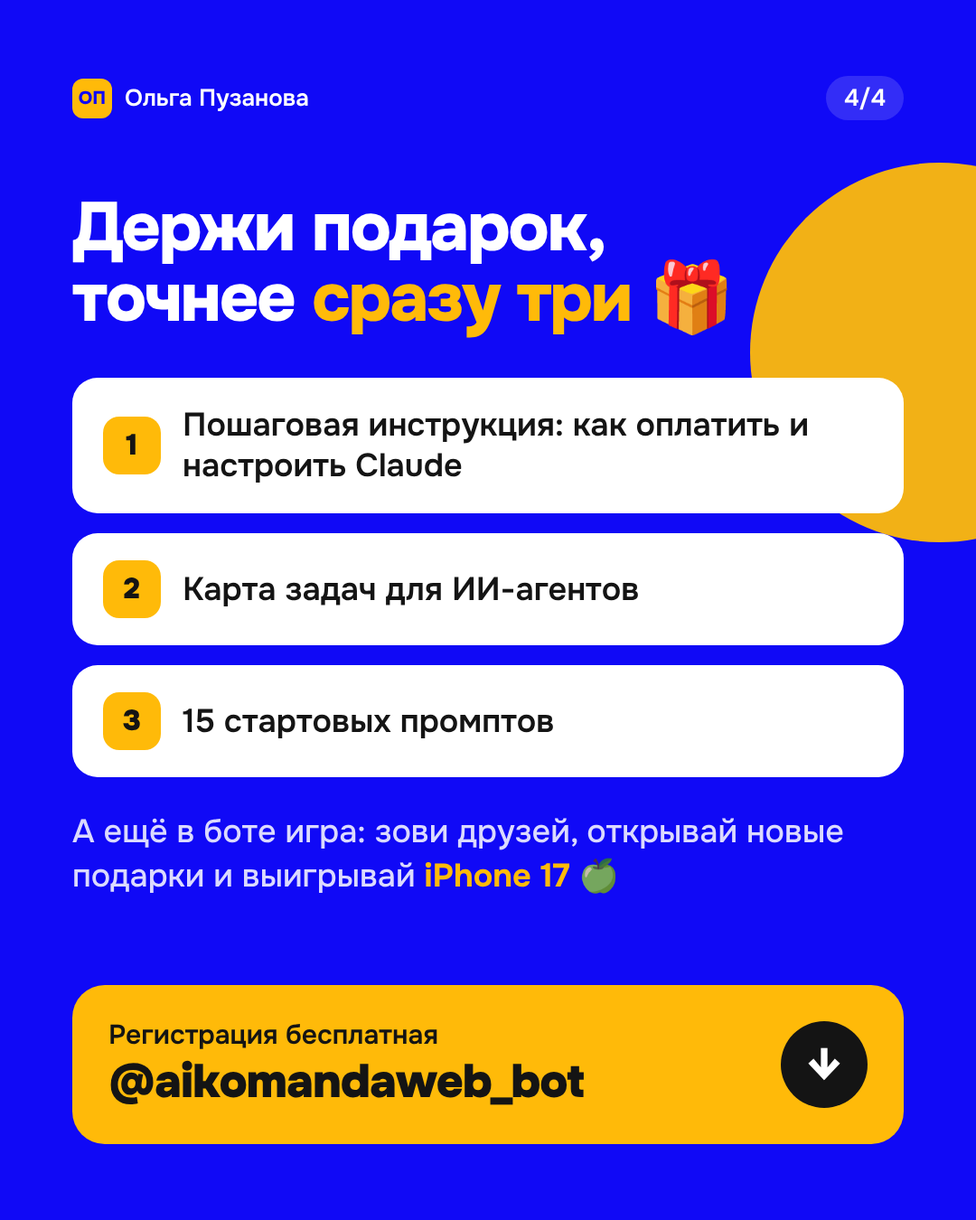
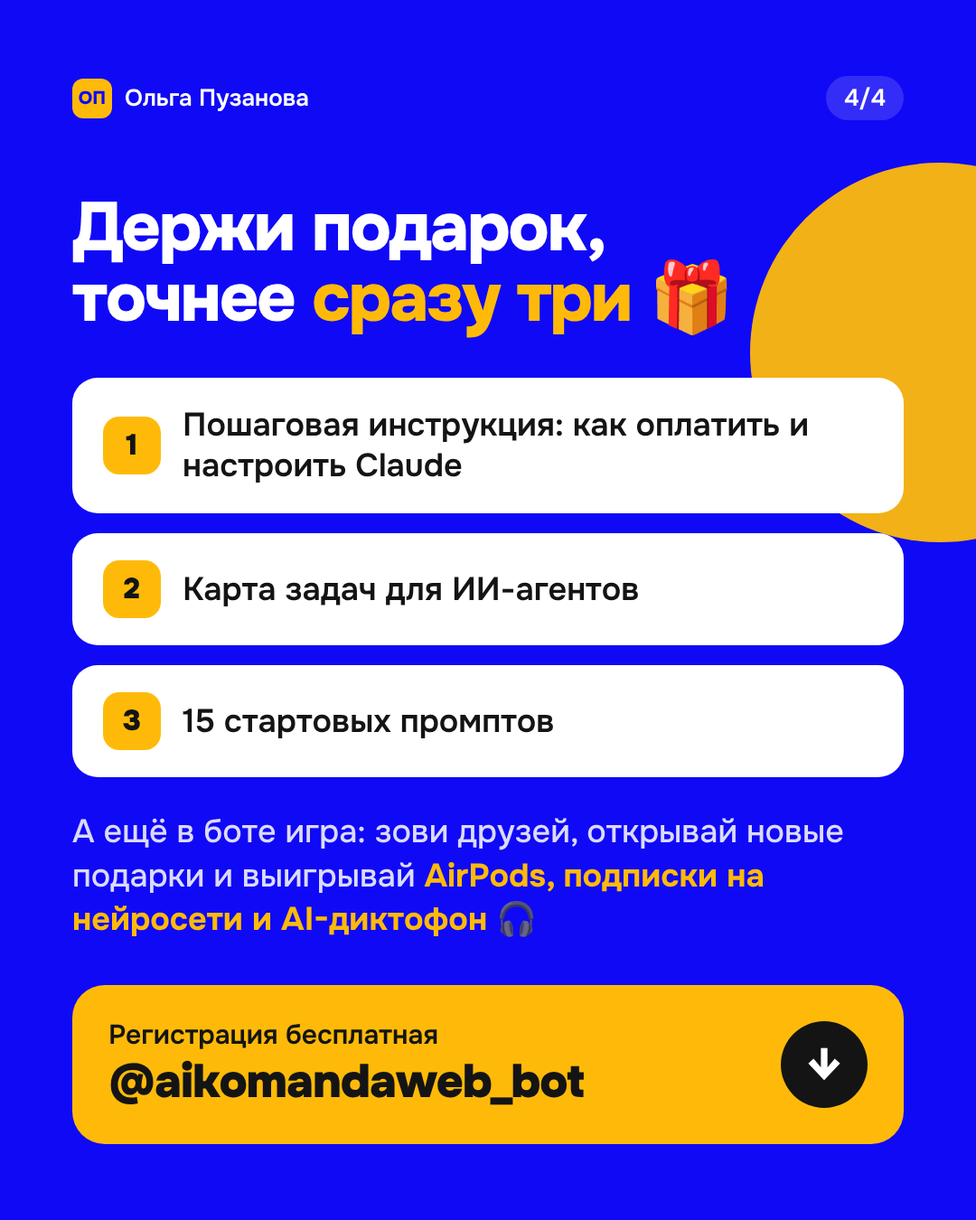
Сайт: фото спикера, регалии, бегущая строка, карта кейсов, правки текстов и VIP. Бот: ссылки на эфиры, воздушный шар, новые призы
Claude-Session: https://claude.ai/code/session_01YJ46gFNh2tqyNbJXRrCkHc

Changed region(s): [[0.0611, 0.6844, 0.7944, 0.7778]]

diff --git a/docs/index.html b/docs/index.html
@@ -363,6 +363,10 @@ section{position:relative;padding-block:clamp(56px,6.5vw,96px)}
 .plan li{display:grid;grid-template-columns:22px minmax(0,1fr);gap:10px;font-size:16px;line-height:1.4}
 .plan li::before{content:"✓";font-weight:800;color:var(--blue)}
 .plan.vip li::before{color:var(--yellow)}
+.plan li.hot{background:var(--yellow);color:var(--ink);border-radius:16px;padding:12px 14px;margin:2px -14px;box-shadow:0 0 0 3px rgba(255,186,9,.25)}
+.plan.vip li.hot::before{color:var(--ink)}
+.plan li.hot .tg{background:var(--ink);color:var(--yellow)}
+.plan li.hot small{opacity:.85}
 .plan li small{display:block;font-size:14px;opacity:.75}
 .plan .tg{display:inline-flex;height:22px;align-items:center;padding-inline:9px;border-radius:999px;background:rgba(255,255,255,.18);font-size:11.5px;font-weight:700;margin-left:6px;vertical-align:1px;white-space:nowrap}
 .plan .btn{width:100%}
@@ -436,6 +440,41 @@ footer a{color:#BDBDC2;text-decoration:none}
 @media (max-width:760px){.dock{display:block}}
 
 @media (prefers-reduced-motion:reduce){*,*::before,*::after{animation:none!important;transition:none!important}html{scroll-behavior:auto}.u svg path,.squig path{stroke-dashoffset:0}}
+
+/* hero: спикер, регалии */
+.frame.spk{aspect-ratio:4/5;background:var(--sky);position:relative}
+.frame.spk img{object-position:50% 12%}
+.frame .who{position:absolute;left:16px;bottom:16px;background:var(--white);border:1.5px solid var(--ink);border-radius:16px;padding:10px 14px;font-size:13px;color:var(--ink-2);line-height:1.3}
+.frame .who b{display:block;color:var(--ink);font-size:16px}
+.regal{display:grid;grid-template-columns:repeat(3,minmax(0,1fr));gap:10px;margin-top:18px}
+.regal div{background:var(--white);border:1.5px solid var(--ink);border-radius:18px;padding:12px 14px;display:grid;gap:2px}
+.regal b{font-size:clamp(22px,2.6vw,30px);font-weight:800;letter-spacing:-.03em;line-height:1;color:var(--blue)}
+.regal span{font-size:12.5px;line-height:1.3;color:var(--ink-2)}
+@media (max-width:480px){.regal{grid-template-columns:1fr 1fr}.regal div:last-child{grid-column:span 2}}
+/* бегущая строка */
+.marq{background:var(--blue);color:var(--white);overflow:hidden;border-block:1.5px solid var(--ink);padding:16px 0;transform:rotate(-1.2deg);margin:28px -8px}
+.marq .tr{display:flex;width:max-content;animation:marq 32s linear infinite}
+.marq span{display:inline-flex;align-items:center;gap:22px;padding-right:22px;font-weight:800;font-size:clamp(18px,2.4vw,28px);letter-spacing:-.01em;white-space:nowrap;text-transform:uppercase}
+.marq i{font-style:normal;color:var(--yellow)}
+@keyframes marq{to{transform:translateX(-50%)}}
+@media (prefers-reduced-motion:reduce){.marq .tr{animation:none}}
+/* карта кейсов */
+.cases{position:relative;z-index:1;margin-top:clamp(48px,6vw,80px)}
+.cases-h{display:flex;flex-wrap:wrap;justify-content:space-between;align-items:end;gap:14px;margin-bottom:18px}
+.cases-h h3{margin:0;font-size:clamp(28px,3.6vw,44px);line-height:1.02;letter-spacing:-.03em;font-weight:800}
+.cases-h h3 .y{color:var(--yellow)}
+.cases-h p{margin:8px 0 0;color:var(--on-blue-2);max-width:46ch}
+.cmap{position:relative;border-radius:28px;overflow:hidden;border:2px solid var(--ink);background:#0E0E0E;height:min(72vh,640px);box-shadow:8px 8px 0 var(--yellow)}
+#osd{position:absolute;inset:0}
+.cbar{position:absolute;left:12px;right:12px;bottom:12px;display:flex;gap:8px;align-items:center;z-index:2}
+.cbar .rail{display:flex;gap:8px;overflow-x:auto;scrollbar-width:none;min-width:0;padding:2px}
+.cbar .rail::-webkit-scrollbar{display:none}
+.cbar button{font:700 13px var(--font);color:var(--ink);background:var(--white);border:1.5px solid var(--ink);border-radius:999px;padding:9px 14px;cursor:pointer;white-space:nowrap;display:flex;gap:6px;align-items:center}
+.cbar button .n{font-size:11px;font-weight:800;color:var(--blue)}
+.cbar button.all{background:var(--yellow)}
+.cbar .sq{width:38px;height:38px;padding:0;justify-content:center;font-size:18px;flex:none}
+@media (max-width:640px){.cmap{height:440px}}
+.ctip{position:absolute;left:12px;top:12px;z-index:2;background:var(--yellow);color:var(--ink);border:1.5px solid var(--ink);border-radius:999px;padding:7px 12px;font-size:12.5px;font-weight:700}
 </style>
 </head>
 <body>
@@ -464,8 +503,9 @@ footer a{color:#BDBDC2;text-decoration:none}
           <div>
             <span class="chip fu"><span class="dot"></span>Онлайн-двухдневник · <span data-dates>Сб 17 и Вс 18 октября</span></span>
             <h1 class="fu d1">Собери <span class="hl">ИИ&#8209;команду</span> <span class="u">за выходные<svg viewBox="0 0 300 30" preserveAspectRatio="none" aria-hidden="true"><path d="M4 20 C 60 6, 120 26, 180 14 S 270 8, 296 18"/></svg></span></h1>
-            <p class="lead fu d2">Агенты и контент-завод от и до с Claude. 2 дня: агенты, которые работают без тебя, и контент на месяц вперёд.</p>
+            <p class="lead fu d2">2 дня практики в Claude: соберёшь агентов, которые работают без тебя, и контент-завод, который готовит посты и ролики на месяц вперёд.</p>
             <div class="meta fu d2"><span class="chip">14:00 МСК</span><span class="chip">бесплатно</span><span class="chip">без программирования</span></div>
+            <div class="regal fu d2"><div><b>13 000+</b><span>участников программ</span></div><div><b>500+</b><span>студентов прошли обучение</span></div><div><b>572</b><span>кейса и отзыва учеников</span></div></div>
 
             <div id="formTop" class="fu d3">
               <form class="regf" novalidate>
@@ -476,7 +516,7 @@ footer a{color:#BDBDC2;text-decoration:none}
                 </div>
                 <fieldset class="tars" aria-label="Тариф">
                   <label class="tar"><input type="radio" name="tariff" id="h-free" value="free" checked><span class="tb"><b>Бесплатно · 0 ₽</b><small>эфиры обоих дней и 3 подарка</small></span></label>
-                  <label class="tar"><input type="radio" name="tariff" id="h-vip" value="vip"><span class="tb"><b>VIP · 490 ₽</b><small>записи, консультация, все материалы</small></span></label>
+                  <label class="tar"><input type="radio" name="tariff" id="h-vip" value="vip"><span class="tb"><b>VIP · 490 ₽</b><small>записи и конспекты, консультация, материалы</small></span></label>
                 </fieldset>
                 <label class="cb" for="h-agree"><input type="checkbox" id="h-agree" name="consent_data" checked><span class="bx"><svg viewBox="0 0 16 16"><path d="M3 8.5l3.2 3L13 4.5"/></svg></span><span>Даю согласие на <a href="https://olgapuzanovva.ru/personinfo" target="_blank" rel="noopener">обработку персональных данных</a> в соответствии с <a href="https://olgapuzanovva.ru/politic" target="_blank" rel="noopener">Политикой конфиденциальности</a> *</span></label>
                 <label class="cb" for="h-news"><input type="checkbox" id="h-news" name="consent_mailing" checked><span class="bx"><svg viewBox="0 0 16 16"><path d="M3 8.5l3.2 3L13 4.5"/></svg></span><span>Согласен(на) получать информационные рассылки от Ольги Пузановой по e-mail и в Telegram (<a href="https://olgapuzanovva.ru/soglasie" target="_blank" rel="noopener">текст согласия</a>) *</span></label>
@@ -486,7 +526,7 @@ footer a{color:#BDBDC2;text-decoration:none}
           </div>
 
           <div class="visual fu d2">
-            <div class="frame"><img src="img/i_hero.jpg" alt="Женщина с ноутбуком и кофе, вокруг роботы-помощники с чатами, графиками и камерой"></div>
+            <div class="frame spk"><img src="img/olga.jpg" alt="Ольга Пузанова, спикер интенсива, эксперт по нейросетям и ИИ-агентам"></div>
             <div class="float f1"><span class="ic">💬</span><span>Агент ответил 14 клиентам<small>пока ты спишь</small></span></div>
             <div class="float f2"><span class="ic">📊</span><span>Сводка к 9:00<small>3 вывода и 1 действие</small></span></div>
             <div class="float f3"><span class="ic">🎬</span><span>7 сценариев роликов<small>в твоём голосе</small></span></div>
@@ -505,11 +545,13 @@ footer a{color:#BDBDC2;text-decoration:none}
       </div>
       <div class="bonuses">
         <article class="bonus b"><svg class="gift" viewBox="0 0 120 120" aria-hidden="true"><g class="lid-g"><path class="bow" d="M60 30 C 44 8, 22 18, 34 30 C 40 36, 52 33, 60 30 Z"/><path class="bow" d="M60 30 C 76 8, 98 18, 86 30 C 80 36, 68 33, 60 30 Z"/><rect class="box" x="18" y="30" width="84" height="20" rx="5"/><rect class="rib" x="53" y="30" width="14" height="20"/></g><rect class="box" x="24" y="50" width="72" height="56" rx="6"/><rect class="rib" x="53" y="50" width="14" height="56"/><path class="spark" d="M106 12 l3 7 7 3 -7 3 -3 7 -3 -7 -7 -3 7 -3z"/><path class="spark s2" d="M14 64 l2 5 5 2 -5 2 -2 5 -2 -5 -5 -2 5 -2z"/></svg><span class="n">1</span><span class="tag">Пошаговая инструкция</span><h3>Как оплатить и настроить Claude за 15 минут</h3><p>Со скриншотами. Придёшь на эфир с готовым Claude и сразу начнёшь практику.</p></article>
-        <article class="bonus y"><svg class="gift" viewBox="0 0 120 120" aria-hidden="true"><g class="lid-g"><path class="bow" d="M60 30 C 44 8, 22 18, 34 30 C 40 36, 52 33, 60 30 Z"/><path class="bow" d="M60 30 C 76 8, 98 18, 86 30 C 80 36, 68 33, 60 30 Z"/><rect class="box" x="18" y="30" width="84" height="20" rx="5"/><rect class="rib" x="53" y="30" width="14" height="20"/></g><rect class="box" x="24" y="50" width="72" height="56" rx="6"/><rect class="rib" x="53" y="50" width="14" height="56"/><path class="spark" d="M106 12 l3 7 7 3 -7 3 -3 7 -3 -7 -7 -3 7 -3z"/><path class="spark s2" d="M14 64 l2 5 5 2 -5 2 -2 5 -2 -5 -5 -2 5 -2z"/></svg><span class="n">2</span><span class="tag">Карта задач</span><h3>Что отдать агентам первым</h3><p>Таблица: какие задачи из твоего дела отдать агентам в первую очередь и сколько часов и денег это освободит.</p></article>
+        <article class="bonus y"><svg class="gift" viewBox="0 0 120 120" aria-hidden="true"><g class="lid-g"><path class="bow" d="M60 30 C 44 8, 22 18, 34 30 C 40 36, 52 33, 60 30 Z"/><path class="bow" d="M60 30 C 76 8, 98 18, 86 30 C 80 36, 68 33, 60 30 Z"/><rect class="box" x="18" y="30" width="84" height="20" rx="5"/><rect class="rib" x="53" y="30" width="14" height="20"/></g><rect class="box" x="24" y="50" width="72" height="56" rx="6"/><rect class="rib" x="53" y="50" width="14" height="56"/><path class="spark" d="M106 12 l3 7 7 3 -7 3 -3 7 -3 -7 -7 -3 7 -3z"/><path class="spark s2" d="M14 64 l2 5 5 2 -5 2 -2 5 -2 -5 -5 -2 5 -2z"/></svg><span class="n">2</span><span class="tag">Карта задач</span><h3>Что отдать агентам первым</h3><p>Таблица: какие задачи из рабочей рутины отдать агентам в первую очередь и сколько часов и денег это освободит.</p></article>
         <article class="bonus s"><svg class="gift" viewBox="0 0 120 120" aria-hidden="true"><g class="lid-g"><path class="bow" d="M60 30 C 44 8, 22 18, 34 30 C 40 36, 52 33, 60 30 Z"/><path class="bow" d="M60 30 C 76 8, 98 18, 86 30 C 80 36, 68 33, 60 30 Z"/><rect class="box" x="18" y="30" width="84" height="20" rx="5"/><rect class="rib" x="53" y="30" width="14" height="20"/></g><rect class="box" x="24" y="50" width="72" height="56" rx="6"/><rect class="rib" x="53" y="50" width="14" height="56"/><path class="spark" d="M106 12 l3 7 7 3 -7 3 -3 7 -3 -7 -7 -3 7 -3z"/><path class="spark s2" d="M14 64 l2 5 5 2 -5 2 -2 5 -2 -5 -5 -2 5 -2z"/></svg><span class="n">3</span><span class="tag">Стартовые промпты</span><h3>15 промптов для агентов и контента</h3><p>Готовые запросы для Claude: вставляешь свои данные и сразу получаешь результат.</p></article>
       </div>
     </div>
   </section>
+
+  <div class="marq" aria-label="Бесплатный онлайн-интенсив, 21 поток"><div class="tr" aria-hidden="true"><span>Бесплатный онлайн-интенсив <i>★</i> 21 поток <i>★</i> Собери ИИ-команду за выходные <i>★</i> 17–18 октября <i>★</i></span><span>Бесплатный онлайн-интенсив <i>★</i> 21 поток <i>★</i> Собери ИИ-команду за выходные <i>★</i> 17–18 октября <i>★</i></span><span>Бесплатный онлайн-интенсив <i>★</i> 21 поток <i>★</i> Собери ИИ-команду за выходные <i>★</i> 17–18 октября <i>★</i></span><span>Бесплатный онлайн-интенсив <i>★</i> 21 поток <i>★</i> Собери ИИ-команду за выходные <i>★</i> 17–18 октября <i>★</i></span></div></div>
 
   <!-- 2. PROGRAM -->
   <section id="program">
@@ -535,16 +577,16 @@ footer a{color:#BDBDC2;text-decoration:none}
         </aside>
         <div class="tlw"><span class="fill" aria-hidden="true"></span><ol class="tl">
           <li class="st open"><div class="sh"><time>14:00</time><span class="sn">Разберёшься, что такое ИИ-агент и что он может делать за тебя</span></div>
-            <div class="sb"><div><p>Простыми словами, без технических терминов: чем агент отличается от обычного чата, какие задачи можно отдать ему целиком, а где нужна твоя проверка. Покажу агентов, которые уже работают у меня и у учеников, с цифрами: сколько часов и денег они экономят.</p><p class="you"><b>Забираешь:</b><span class="pp"><i class="pi">Внедряю</i>список задач из своего дела, которые можно отдать агенту</span><span class="pp"><i class="pe">Зарабатываю</i>понимание, какие агенты нужны бизнесу и за что платят</span></p></div></div></li>
+            <div class="sb"><div><p>Простыми словами, без технических терминов: чем агент отличается от обычного чата, какие задачи можно отдать ему целиком, а где нужна твоя проверка. Покажу агентов, которые уже работают у меня и у учеников, с цифрами: сколько часов и денег они экономят.</p><p class="you"><b>Забираешь:</b><span class="pp"><i class="pi">Внедряю</i>список задач из рабочей рутины, которые можно отдать агенту</span><span class="pp"><i class="pe">Зарабатываю</i>понимание, какие агенты нужны бизнесу и за что платят</span></p></div></div></li>
           <li class="st open main"><div class="sh"><time>14:40</time><span class="sn">Соберёшь своего первого агента с нуля <span class="star">★ главное</span></span></div>
-            <div class="sb"><div><p>Сначала вместе в прямом эфире собираем агента-администратора: он отвечает клиентам по прайсу и записывает на услуги. Потом ты собираешь своего агента под свою задачу, а я разбираю работы участников.</p>
+            <div class="sb"><div><p>Сначала вместе в прямом эфире собираем агента-администратора: он отвечает клиентам по прайсу и записывает на услуги. Потом ты собираешь агента под свою задачу, а я разбираю работы участников.</p>
               <div class="flow"><span>роль</span><i>→</i><span>материалы</span><i>→</i><span>правила</span><i>→</i><span>тест</span><i>→</i><span>правки</span></div><p class="you"><b>Забираешь:</b><span class="pp"><i class="pi">Внедряю</i>рабочего агента под свою задачу</span><span class="pp"><i class="pe">Зарабатываю</i>навык собрать агента клиенту за один вечер</span></p></div></div></li>
           <li class="st open"><div class="sh"><time>15:30</time><span class="sn">Настроишь агента, который работает, пока ты спишь</span></div>
             <div class="sb"><div><p>Агент сам запускается по расписанию или когда приходит заявка. Разберём трёх таких агентов: сводка по продажам к 9:00, ответы на отзывы, отбор кандидатов на вакансию.</p><p class="you"><b>Забираешь:</b><span class="pp"><i class="pi">Внедряю</i>агента, который каждый день делает задачу без тебя</span><span class="pp"><i class="pe">Зарабатываю</i>3 готовые услуги для салонов, клиник и селлеров</span></p></div></div></li>
           <li class="st open"><div class="sh"><time>16:05</time><span class="sn">Поймёшь, как и сколько на этом зарабатывать</span></div>
             <div class="sb"><div><p>Для тех, кто внедряет: карта задач с расчётом, сколько часов и денег освободят агенты. Для тех, кто зарабатывает: кому продавать агентов, сколько за это берут и где найти первого клиента.</p><p class="you"><b>Забираешь:</b><span class="pp"><i class="pi">Внедряю</i>план: 3 задачи, которые отдашь агентам на этой неделе</span><span class="pp"><i class="pe">Зарабатываю</i>готовое предложение «Агент под ключ» с ценой</span></p></div></div></li>
           <li class="st open"><div class="sh"><time>16:30</time><span class="sn">Получишь задание и подарок</span></div>
-            <div class="sb"><div><p>Небольшое задание до воскресенья: доделать агента под свою задачу. За выполненное задание подарок и участие в розыгрыше призов.</p></div></div></li>
+            <div class="sb"><div><p>Небольшая домашка до воскресенья: доделать агента под свою задачу. За выполненную работу подарок и участие в розыгрыше призов.</p></div></div></li>
         </ol></div>
       </div>
 
@@ -568,7 +610,7 @@ footer a{color:#BDBDC2;text-decoration:none}
           <li class="st open"><div class="sh"><time>14:15</time><span class="sn">Поймёшь, как создавать контент-заводы только с одной нейронкой</span></div>
             <div class="sb"><div><p>Весь контент-завод собирается в одном Claude: темы, тексты, сценарии и проверка. Начинаем с главного: загружаешь 10 своих постов или сообщений, и Claude запоминает твои слова и интонацию. Тексты перестают звучать так, будто их написал робот.</p><p class="you"><b>Забираешь:</b><span class="pp"><i class="pi">Внедряю</i>паспорт голоса для своего бренда</span><span class="pp"><i class="pe">Зарабатываю</i>первый этап услуги «контент под ключ»</span></p></div></div></li>
           <li class="st open"><div class="sh"><time>14:40</time><span class="sn">Получишь контент-план на месяц за 20 минут</span></div>
-            <div class="sb"><div><p>30 тем из реальных вопросов твоих клиентов, по 3 цепляющих начала на каждую, всё разложено по календарю. Из одной идеи делаем 5 форматов: рилс, пост, карусель, сторис и рассылку.</p><p class="you"><b>Забираешь:</b><span class="pp"><i class="pi">Внедряю</i>контент на 30 дней для своего дела</span><span class="pp"><i class="pe">Зарабатываю</i>контент-план, который можно продавать клиентам</span></p></div></div></li>
+            <div class="sb"><div><p>30 тем из реальных вопросов твоих клиентов, по 3 цепляющих начала на каждую, всё разложено по календарю. Из одной идеи делаем 5 форматов: рилс, пост, карусель, сторис и рассылку.</p><p class="you"><b>Забираешь:</b><span class="pp"><i class="pi">Внедряю</i>контент на 30 дней вперёд</span><span class="pp"><i class="pe">Зарабатываю</i>контент-план, который можно продавать клиентам</span></p></div></div></li>
           <li class="st open main"><div class="sh"><time>15:10</time><span class="sn">Сделаешь свой первый ИИ-ролик <span class="star">★ главное</span></span></div>
             <div class="sb"><div><p>Сценарий, озвучка, видео с ИИ-аватаром, монтаж и обложка. Вживую за 30 минут, без съёмок и монтажёра.</p>
               <div class="flow"><span>сценарий</span><i>→</i><span>голос</span><i>→</i><span>аватар</span><i>→</i><span>монтаж</span><i>→</i><span>обложка</span></div><p class="you"><b>Забираешь:</b><span class="pp"><i class="pi">Внедряю</i>готовый ролик про свой продукт</span><span class="pp"><i class="pe">Зарабатываю</i>ролик в портфолио и понятный процесс для заказов</span></p></div></div></li>
@@ -591,7 +633,7 @@ footer a{color:#BDBDC2;text-decoration:none}
         </svg>
         <span class="chip">Участие</span>
         <h2 class="h2" style="margin-top:16px;max-width:15ch">Приходи бесплатно или <span class="hl">забирай VIP</span></h2>
-        <p class="lead" style="margin-top:14px">Смотреть эфиры можно бесплатно. В VIP добавляются записи, личная консультация и все материалы одним файлом.</p>
+        <p class="lead" style="margin-top:14px">Эфиры можно смотреть бесплатно. В VIP добавляются записи с конспектами, личная консультация и все материалы одним файлом.</p>
         <div class="plans">
           <article class="plan free">
             <div class="pt"><span>Бесплатно</span><span class="chip" style="background:#fff">для всех</span></div>
@@ -607,8 +649,8 @@ footer a{color:#BDBDC2;text-decoration:none}
             <div class="pt"><span>VIP</span><span class="chip y">всё включено</span></div>
             <div class="pr">490 ₽<s>5 000 ₽</s></div>
             <ul>
-              <li><span>Записи обоих дней <span class="tg">30 дней</span><small>Пересматривай и собирай вместе с записью</small></span></li>
-              <li><span>Личная консультация с экспертом <span class="tg">20 минут</span><small>Разберём твою задачу и скажем, с какого агента начать</small></span></li>
+              <li><span>Записи и конспекты обоих дней <span class="tg">30 дней</span><small>Пересматривай в своём темпе и повторяй шаги по конспекту</small></span></li>
+              <li class="hot"><span>Личная консультация с экспертом <span class="tg">20 минут</span><small>Разберём твою задачу и скажем, с какого агента начать</small></span></li>
               <li><span>Все промпты и шаблоны из эфиров и 10 готовых агентов <span class="tg">1 файл</span><small>Бери и запускай, даже если пропустил часть эфира</small></span></li>
               <li><span>Именной сертификат участника</span></li>
               <li><span>Грант на 10 000 ₽ на флагманское обучение <span class="tg">только VIP</span></span></li>
@@ -618,7 +660,7 @@ footer a{color:#BDBDC2;text-decoration:none}
           </article>
         </div>
       </div>
-      <p class="fine">Записи эфиров в открытом доступе не будет, она есть только у VIP.</p>
+      <p class="fine">Записей в открытом доступе не будет: они есть только у VIP.</p>
     </div>
   </section>
 
@@ -670,7 +712,7 @@ footer a{color:#BDBDC2;text-decoration:none}
             </div>
                 <fieldset class="tars" aria-label="Тариф">
                   <label class="tar"><input type="radio" name="tariff" id="r-free" value="free" checked><span class="tb"><b>Бесплатно · 0 ₽</b><small>эфиры обоих дней и 3 подарка</small></span></label>
-                  <label class="tar"><input type="radio" name="tariff" id="r-vip" value="vip"><span class="tb"><b>VIP · 490 ₽</b><small>записи, консультация, все материалы</small></span></label>
+                  <label class="tar"><input type="radio" name="tariff" id="r-vip" value="vip"><span class="tb"><b>VIP · 490 ₽</b><small>записи и конспекты, консультация, материалы</small></span></label>
                 </fieldset>
                 <label class="cb" for="r-agree"><input type="checkbox" id="r-agree" name="consent_data" checked><span class="bx"><svg viewBox="0 0 16 16"><path d="M3 8.5l3.2 3L13 4.5"/></svg></span><span>Даю согласие на <a href="https://olgapuzanovva.ru/personinfo" target="_blank" rel="noopener">обработку персональных данных</a> в соответствии с <a href="https://olgapuzanovva.ru/politic" target="_blank" rel="noopener">Политикой конфиденциальности</a> *</span></label>
                 <label class="cb" for="r-news"><input type="checkbox" id="r-news" name="consent_mailing" checked><span class="bx"><svg viewBox="0 0 16 16"><path d="M3 8.5l3.2 3L13 4.5"/></svg></span><span>Согласен(на) получать информационные рассылки от Ольги Пузановой по e-mail и в Telegram (<a href="https://olgapuzanovva.ru/soglasie" target="_blank" rel="noopener">текст согласия</a>) *</span></label>
@@ -679,13 +721,25 @@ footer a{color:#BDBDC2;text-decoration:none}
         </div>
       </div>
 
+
+      <div class="cases">
+        <div class="cases-h">
+          <div><span class="chip y">Результаты учеников</span><h3 style="margin-top:14px">572 кейса и отзыва <span class="y">на одной карте</span></h3><p>Деньги в кассе, рост продаж, ИИ-агенты, нейрофотосессии и живые отзывы учеников 2022–2026. Приближай и листай ветки.</p></div>
+        </div>
+        <div class="cmap">
+          <div id="osd" role="img" aria-label="Карта кейсов и отзывов учеников Ольги Пузановой"></div>
+          <span class="ctip">Колесо или два пальца: приблизить</span>
+          <div class="cbar"><button class="sq" id="czin" aria-label="Приблизить">+</button><button class="sq" id="czout" aria-label="Отдалить">−</button><div class="rail" id="crail"><button class="all" id="chome">Вся карта</button></div></div>
+        </div>
+      </div>
+
       <div class="faq">
-        <details><summary>Я никогда не программировал. Получится?</summary><p>Да. Программировать не нужно: агенту ты всё объясняешь обычными словами, как новому сотруднику. Повторяешь за мной шаг за шагом, и к концу дня у тебя рабочий агент.</p></details>
-        <details><summary>Мне не нужно зарабатывать на ИИ. Мне это зачем?</summary><p>Чтобы ИИ работал на тебя. Отдашь агентам рутину: ответы клиентам, отчёты, контент. И освободишь часы каждую неделю.</p></details>
-        <details><summary>Будет ли запись?</summary><p>Запись будет только у участников VIP, доступ на 30 дней. Без VIP смотреть можно только в прямом эфире.</p></details>
+        <details><summary>Я никогда не программировал. Получится?</summary><p>Да. Код писать не нужно: агенту ты всё объясняешь обычными словами, как новому сотруднику. Повторяешь за мной шаг за шагом, и к концу дня у тебя рабочий агент.</p></details>
+        <details><summary>Мне не нужно зарабатывать на ИИ. Зачем мне это?</summary><p>Чтобы ИИ работал на тебя. Отдашь агентам рутину: ответы клиентам, отчёты, контент. И освободишь часы каждую неделю.</p></details>
+        <details><summary>Будет ли запись?</summary><p>Только у участников VIP: записи и конспекты обоих дней, доступ на 30 дней. Без VIP интенсив можно посмотреть только в прямом эфире.</p></details>
         <details><summary>Как оплатить Claude из России?</summary><p>Сразу после регистрации пришлём пошаговую инструкцию со скриншотами: как оплатить и настроить Claude за 15 минут.</p></details>
-        <details><summary>Что если не смогу в прямом эфире?</summary><p>Возьми VIP: записи обоих дней будут доступны 30 дней, и все материалы придут одним файлом.</p></details>
-        <details><summary>Нужен ли мощный компьютер?</summary><p>Нет. Подойдёт обычный ноутбук или компьютер с интернетом. Смотреть можно и с телефона, но для практики удобнее компьютер.</p></details>
+        <details><summary>Что если не смогу в прямом эфире?</summary><p>Возьми VIP: пересмотришь эфиры в удобное время, повторишь шаги по конспекту, а все материалы придут одним файлом.</p></details>
+        <details><summary>Нужен ли мощный компьютер?</summary><p>Нет. Подойдёт обычный ноутбук с интернетом. Смотреть можно и с телефона, но повторять шаги удобнее за ноутбуком или ПК.</p></details>
       </div>
     </div>
   </section>
@@ -864,5 +918,26 @@ footer a{color:#BDBDC2;text-decoration:none}
 })();
 </script>
 
+<script src="https://cdnjs.cloudflare.com/ajax/libs/openseadragon/4.1.0/openseadragon.min.js"></script>
+<script>
+(function(){
+  var el = document.getElementById('osd'); if (!el) return;
+  var JUMPS=[{"t":"Деньги в кассе","n":75,"b":[0.3514,0.013,0.2764,0.2341]},{"t":"Рост продаж","n":48,"b":[0.5461,0.0514,0.2932,0.2165]},{"t":"ИИ-агенты и сайты","n":27,"b":[0.6021,0.1784,0.2997,0.1318]},{"t":"Сэкономили","n":15,"b":[0.6132,0.2925,0.3421,0.0514]},{"t":"Нейрофотосессии","n":118,"b":[0.5443,0.3361,0.4154,0.3034]},{"t":"Офлайн","n":27,"b":[0.4918,0.4087,0.1187,0.2259]},{"t":"Наставничество WB","n":89,"b":[0.1295,0.3697,0.3563,0.2683]},{"t":"Живые отзывы","n":103,"b":[0.0116,0.1643,0.383,0.322]},{"t":"Отзывы о курсе","n":70,"b":[0.1473,0.0282,0.2989,0.2549]}];
+  var started = false;
+  function start(){
+    if (started || !window.OpenSeadragon) return; started = true;
+    var v = OpenSeadragon({id:'osd',showNavigationControl:false,animationTime:1.1,springStiffness:7,maxZoomPixelRatio:1.6,
+      visibilityRatio:0.6,constrainDuringPan:true,gestureSettingsMouse:{clickToZoom:false,scrollToZoom:true},
+      tileSources:{width:28000,height:18200,tileSize:2048,tileOverlap:0,minLevel:11,maxLevel:15,getTileUrl:function(l,x,y){return 'cases/t/'+l+'/'+x+'_'+y+'.jpg';}}});
+    var rail = document.getElementById('crail');
+    JUMPS.forEach(function(j){ var b=document.createElement('button'); b.innerHTML=j.t+' <span class="n">'+j.n+'</span>';
+      b.onclick=function(){ v.viewport.fitBounds(new OpenSeadragon.Rect(j.b[0]-.01,j.b[1]-.01,j.b[2]+.02,j.b[3]+.02)); }; rail.appendChild(b); });
+    document.getElementById('chome').onclick=function(){ v.viewport.goHome(); };
+    document.getElementById('czin').onclick=function(){ v.viewport.zoomBy(1.6); };
+    document.getElementById('czout').onclick=function(){ v.viewport.zoomBy(1/1.6); };
+  }
+  if ('IntersectionObserver' in window) { var io=new IntersectionObserver(function(e){ if(e[0].isIntersecting){ start(); io.disconnect(); } },{rootMargin:'400px'}); io.observe(el); } else start();
+})();
+</script>
 </body>
 </html>

diff --git a/bot/cabinet.html b/bot/cabinet.html
@@ -20,14 +20,13 @@ body{margin:0;background:var(--cream);color:var(--ink);font-family:var(--font);f
 .badge.vip{background:var(--yellow);color:var(--ink)}
 h2{margin:0 0 10px;font-size:19px;font-weight:800;letter-spacing:-.01em}
 .muted{color:var(--ink-2);font-size:14px}
-.flask{display:grid;grid-template-columns:86px 1fr;gap:16px;align-items:center}
-.tube{position:relative;width:70px;height:150px;margin:0 auto;border:3px solid var(--ink);border-radius:14px 14px 34px 34px;overflow:hidden;background:var(--cream)}
-.tube::before{content:"";position:absolute;left:-8px;right:-8px;top:-3px;height:10px;border-radius:6px;background:var(--ink)}
-.liquid{position:absolute;left:0;right:0;bottom:0;height:10%;background:linear-gradient(180deg,#FFD25C,var(--yellow));transition:height 1.2s cubic-bezier(.16,1,.3,1)}
-.liquid::before{content:"";position:absolute;left:-20%;right:-20%;top:-8px;height:16px;border-radius:50%;background:#FFD25C;animation:wave 2.4s ease-in-out infinite}
-@keyframes wave{50%{transform:translateX(8%) scaleY(.7)}}
-.bub{position:absolute;bottom:0;width:8px;height:8px;border-radius:50%;background:rgba(255,255,255,.8);animation:up 3s ease-in infinite}
-@keyframes up{to{transform:translateY(-140px);opacity:0}}
+.flask{display:grid;grid-template-columns:96px 1fr;gap:16px;align-items:center}
+.sky{position:relative;width:96px;height:170px;margin:0 auto;border-radius:18px;background:linear-gradient(180deg,var(--sky),var(--cream));overflow:hidden}
+.sky .cloud{position:absolute;height:12px;border-radius:999px;background:#fff;opacity:.9}
+.balloon{position:absolute;left:8px;width:80px;bottom:-10px;transition:bottom 1.4s cubic-bezier(.16,1,.3,1)}
+.balloon svg{display:block;width:80px;height:140px;animation:bob 3s ease-in-out infinite}
+@keyframes bob{50%{transform:translateY(-6px) rotate(1.5deg)}}
+#fillr{transition:y 1.4s cubic-bezier(.16,1,.3,1),height 1.4s cubic-bezier(.16,1,.3,1)}
 .pct{font-size:40px;font-weight:800;line-height:1;letter-spacing:-.03em}
 .pct small{display:block;font-size:13px;font-weight:600;color:var(--ink-2);margin-top:4px;letter-spacing:0}
 .stats{display:flex;gap:8px;margin-top:10px;flex-wrap:wrap}
@@ -77,8 +76,8 @@ function render(d){
   var nxt = d.levels.filter(function(l){return !l.open})[0];
   var h = '';
   h += '<section class="hello"><span class="badge'+(d.vip?' vip':'')+'">'+(d.vip?'VIP-билет 💛':'Бесплатный билет')+'</span><h1>Привет, '+esc(d.name||'друг')+'!</h1><p>Двухдневник «Собери ИИ-команду за выходные» · 17 и 18 октября · 14:00 МСК</p></section>';
-  h += '<section class="card"><h2>Наполни колбу 🧪</h2><div class="flask"><div class="tube"><div class="liquid" id="liq"></div><i class="bub" style="left:14px"></i><i class="bub" style="left:38px;animation-delay:1s"></i><i class="bub" style="left:26px;animation-delay:2s"></i></div><div><div class="pct">'+pct+'%<small>'+d.friends+' из '+max+' друзей</small></div>'+
-       '<div class="stats"><span>🎟 Билетов: '+d.tickets+'</span><span>🏆 Приз: '+esc(d.prize)+'</span></div>'+
+  h += '<section class="card"><h2>Подними воздушный шар 🎈</h2><div class="flask"><div class="sky"><i class="cloud" style="width:34px;left:6px;top:22px"></i><i class="cloud" style="width:26px;right:6px;top:64px"></i><div class="balloon" id="bal"><svg viewBox="0 0 80 140" aria-hidden="true"><defs><clipPath id="env"><path d="M40 4C18 4 4 21 4 42c0 20 17 36 28 50h16c11-14 28-30 28-50C76 21 62 4 40 4z"/></clipPath></defs><path d="M40 4C18 4 4 21 4 42c0 20 17 36 28 50h16c11-14 28-30 28-50C76 21 62 4 40 4z" fill="#fff"/><rect id="fillr" clip-path="url(#env)" x="0" y="92" width="80" height="0" fill="#FFBA09"/><path d="M40 4c-12 0-18 20-18 38s10 36 14 50M40 4c12 0 18 20 18 38s-10 36-14 50" fill="none" stroke="#1009F6" stroke-width="2" opacity=".5" clip-path="url(#env)"/><path d="M40 4C18 4 4 21 4 42c0 20 17 36 28 50h16c11-14 28-30 28-50C76 21 62 4 40 4z" fill="none" stroke="#141414" stroke-width="3" stroke-linejoin="round"/><path d="M33 92l2 18M47 92l-2 18" stroke="#141414" stroke-width="2"/><rect x="31" y="110" width="18" height="15" rx="4" fill="#1009F6" stroke="#141414" stroke-width="2.5"/></svg></div></div><div><div class="pct">'+pct+'%<small>'+d.friends+' из '+max+' друзей</small></div>'+
+       '<div class="stats"><span>🎟 Билетов: '+d.tickets+'</span><span>🏆 Розыгрыш: '+esc(d.prize)+'</span></div>'+
        (nxt?'<p class="muted" style="margin:10px 0 0">До подарка «'+esc(nxt.title)+'»: ещё '+(nxt.friends-d.friends)+'</p>':'<p class="muted" style="margin:10px 0 0">Все уровни открыты 🏆</p>')+'</div></div>'+
        '<div class="ref"><input id="ref" readonly value="'+esc(d.ref)+'"><button class="btn small" id="copy">Копировать</button></div>'+
        '<div class="row"><a class="btn blue small" id="share">🔗 Позвать друга</a><a class="btn ghost small" href="#levels">Все подарки</a></div>'+
@@ -95,11 +94,11 @@ function render(d){
        '<div class="sch"><span class="d y">ВС<br>14:00</span><span><b>Контент-завод и ИИ-ролики</b><br><span class="muted">Контент-план на месяц и первый ИИ-ролик</span></span></div>'+
        '<div class="row">'+(d.stream1?'<a class="btn blue small" data-u="'+esc(d.stream1)+'">🔴 Эфир сб</a>':'')+(d.stream2?'<a class="btn blue small" data-u="'+esc(d.stream2)+'">🔴 Эфир вс</a>':'')+'</div>'+
        '<div class="row"><a class="btn small" data-u="'+esc(d.tg)+'">📢 Канал Telegram</a><a class="btn small ghost" data-u="'+esc(d.max)+'">💬 Канал MAX</a></div></section>';
-  if (!d.vip) h += '<section class="card vipc"><h2>💛 VIP-билет · 490 ₽</h2><ul><li>Записи обоих дней на 30 дней</li><li>Личная консультация с экспертом, 20 минут</li><li>Все промпты, шаблоны и 10 готовых агентов одним файлом</li><li>Именной сертификат</li><li>Грант на 10 000 ₽ на флагманское обучение</li></ul><a class="btn blue" data-u="'+esc(d.pay)+'">Забрать VIP за 490 ₽</a></section>';
+  if (!d.vip) h += '<section class="card vipc"><h2>💛 VIP-билет · 490 ₽</h2><ul><li>Записи и конспекты обоих дней на 30 дней</li><li>Личная консультация с экспертом, 20 минут</li><li>Все промпты, шаблоны и 10 готовых агентов одним файлом</li><li>Именной сертификат</li><li>Грант на 10 000 ₽ на флагманское обучение</li></ul><a class="btn blue" data-u="'+esc(d.pay)+'">Забрать VIP за 490 ₽</a></section>';
   else h += '<section class="card vipc"><h2>💛 Твой VIP</h2><p class="muted" style="color:#333">Записи, файл с материалами и запись на консультацию придут в бот после эфиров. Сертификат и грант тоже там.</p></section>';
   h += '<p class="muted" style="text-align:center">Нужна помощь? Напиши <a data-u="https://t.me/puzanovateam" style="color:#1009F6">@puzanovateam</a></p>';
   var app = document.getElementById('app'); app.innerHTML = h;
-  setTimeout(function(){ document.getElementById('liq').style.height = pct + '%'; }, 150);
+  setTimeout(function(){ var f = document.getElementById('fillr'), h = Math.round(88 * pct / 100); f.setAttribute('y', 92 - h); f.setAttribute('height', h); document.getElementById('bal').style.bottom = (-10 + Math.round(36 * Math.min(d.friends, max) / max)) + 'px'; }, 150);
   app.querySelectorAll('[data-u]').forEach(function(a){ a.addEventListener('click', function(e){ e.preventDefault(); go(a.getAttribute("data-u")); }); });
   document.getElementById('share').onclick = function(){ go(d.share); };
   document.getElementById('copy').onclick = function(){

diff --git a/brand/slaidy-anons/slides.html b/brand/slaidy-anons/slides.html
@@ -102,7 +102,7 @@ h2{font-size:76px;line-height:1.02;letter-spacing:-.03em;font-weight:800}
     <div class="row" style="color:var(--ink)"><b style="background:var(--yellow);color:var(--ink)">2</b>Карта задач для ИИ-агентов</div>
     <div class="row" style="color:var(--ink)"><b style="background:var(--yellow);color:var(--ink)">3</b>15 стартовых промптов</div>
   </div>
-  <p class="lead" style="margin-top:36px">А ещё в боте игра: зови друзей, открывай новые подарки и выигрывай <b style="color:var(--yellow)">iPhone 17</b> 🍏</p>
+  <p class="lead" style="margin-top:36px">А ещё в боте игра: зови друзей, открывай новые подарки и выигрывай <b style="color:var(--yellow)">AirPods, подписки на нейросети и AI-диктофон</b> 🎧</p>
   <div style="margin-top:auto;background:var(--yellow);color:var(--ink);border-radius:36px;padding:36px 40px;display:flex;justify-content:space-between;align-items:center">
     <div><div style="font-size:30px;font-weight:600">Регистрация бесплатная</div><div style="font-size:52px;font-weight:900;letter-spacing:-.02em">@aikomandaweb_bot</div></div>
     <div style="width:96px;height:96px;border-radius:50%;background:var(--ink);color:#fff;display:grid;place-items:center;font-size:52px;font-weight:800">↓</div>

diff --git a/bot/main.py b/bot/main.py
@@ -92,8 +92,8 @@ BOT_USERNAME = ''
 
 def links(u=None):
     d = dict(DEFAULT_LINKS)
-    d['STREAM1'] = setting('stream1') or d['TG']
-    d['STREAM2'] = setting('stream2') or d['TG']
+    d['STREAM1'] = setting('stream1') or T.STREAM1 or d['TG']
+    d['STREAM2'] = setting('stream2') or T.STREAM2 or d['TG']
     d['ANKETA'] = setting('anketa') or 'https://t.me/puzanovateam?text=' + quote('Хочу на курс')
     if u:
         ref = ref_link(u)
@@ -498,7 +498,8 @@ def user_line(r):
     return (f"<b>{escape(r['first_name'] or 'без имени')}</b> {nick}\n"
             f"📞 {escape(r['phone'] or '—')} · ✉ {escape(r['email'] or '—')}\n"
             f"{marks}🕒 {datetime.fromtimestamp(r['created'], T.MSK).strftime('%d.%m %H:%M')}"
-            + (f' · 👥 друзей: {fr}' if fr else '') + (f" · {escape(r['source'])}" if r['source'] else ''))
+            + (f' · 👥 друзей: {fr}' if fr else '') + (f" · {escape(r['source'])}" if r['source'] else '')
+            + (f"\n📝 {escape(r['survey'])}" if r['survey'] else ''))
 
 def users_page(page):
     total = q('SELECT COUNT(*) FROM users').fetchone()[0]
@@ -712,7 +713,7 @@ async def api_me(req):
     if u['survey']: gifts.append(dict(title=T.GIFT[T.SURVEY_GIFT][0], url=T.GIFT[T.SURVEY_GIFT][1]))
     return web.json_response(dict(
         name=u['first_name'], vip=bool(u['vip']), phone=bool(u['phone']), friends=n, tickets=tickets(u), prize=T.MAIN_PRIZE,
-        ref=L['REF'], share=L['SHARE'], tg=L['TG'], max=L['MAX'], pay=L['PAY'], stream1=setting('stream1'), stream2=setting('stream2'),
+        ref=L['REF'], share=L['SHARE'], tg=L['TG'], max=L['MAX'], pay=L['PAY'], stream1=setting('stream1') or T.STREAM1, stream2=setting('stream2') or T.STREAM2,
         gifts=gifts, levels=lv, survey=bool(u['survey'])))
 
 async def app_page(req):

diff --git a/brand/posty-tg-kanal-ii-komanda.md b/brand/posty-tg-kanal-ii-komanda.md
@@ -91,7 +91,7 @@
 → честные ответы на «я не технарь» и «а вдруг не получится»
 → в выходные ссылки на эфиры
 
-А ещё в боте @aikomandaweb_bot идёт игра: за каждого друга, который придёт по твоей ссылке, открывается новый подарок. Главный приз iPhone 17 🍏
+А ещё в боте @aikomandaweb_bot идёт игра: за каждого друга, который придёт по твоей ссылке, открывается новый подарок. Разыгрываем AirPods, годовые подписки на нейросети и AI-диктофон 🎧
 
 ---
 
